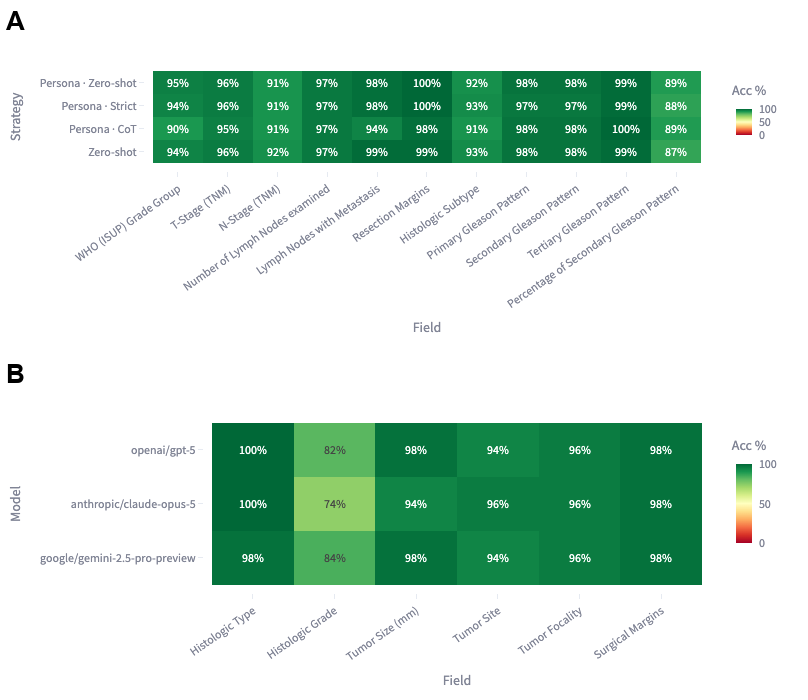
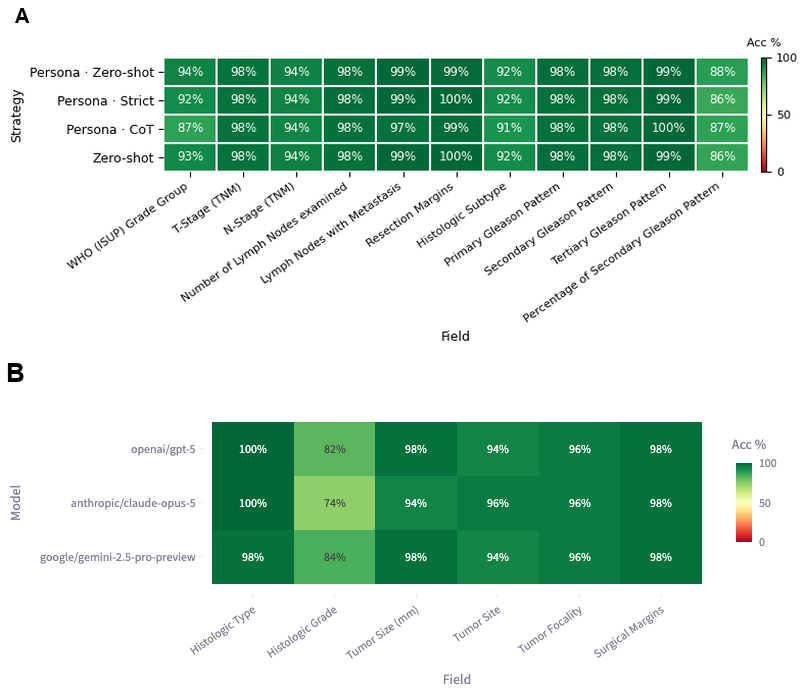
Update README figures to match current manuscript figures
docs_figure1.png now shows the Review step and sensitivity/specificity/
PPV/NPV in Accuracy Evaluation; docs_figure2.png Panel A reflects the
full 340-case PRAD run instead of the earlier 120-case subset. Caption
text for Figure 1 updated to match.

diff --git a/README.md b/README.md
@@ -4,8 +4,8 @@
 
 🔗 **Try it live:** [pathex-app.streamlit.app](https://pathex-app.streamlit.app/)
 
-![PathEx analysis flow — pathology reports and ground truth go in, LLM structured extraction runs behind a choice of prompting strategy, and results feed accuracy evaluation and cohort generation](docs_figure1.png)
-*PathEx analysis flow: reports and ground truth in, LLM extraction with your choice of strategy, results out as accuracy metrics and a labeled cohort export.*
+![PathEx analysis flow — pathology reports and ground truth go in, LLM structured extraction runs behind a choice of prompting strategy, extracted fields go through Review, and results feed accuracy evaluation and cohort generation](docs_figure1.png)
+*PathEx analysis flow: reports and ground truth in, LLM extraction with your choice of strategy, extracted fields go through Review for inline correction and evidence checking, then out as accuracy metrics (including sensitivity, specificity, PPV, and NPV) and a labeled cohort export.*
 
 ![Compare tab screenshots — accuracy heatmaps comparing four prompting strategies (A) and three LLM providers (B) across extracted fields](docs_figure2.png)
 *Compare tab: per-field accuracy heatmaps across prompting strategies (A) and across LLM providers (B).*
